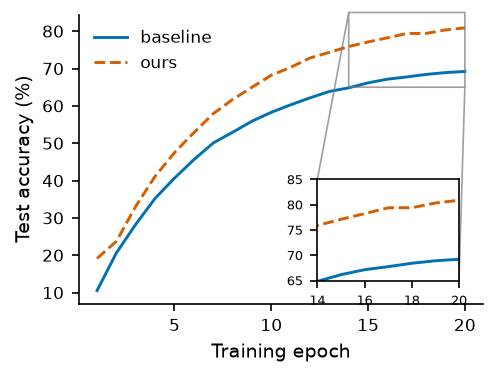
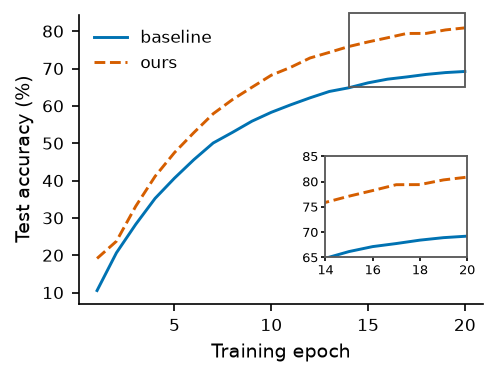
fix: a flat inset with room for its own tick labels
Two things wrong with the inset, both reported after looking at it.

indicate_inset_zoom draws connector lines from the outlined region to the
inset, and on a flat chart those read as a perspective box rather than as a
pointer. The connectors are hidden now. The outline and the inset border share
a colour instead, which ties the two together without implying depth.

The inset also carries its own tick labels, and a bottom corner placed at 0.08
put them level with the parent's x axis. Bottom corners now sit at 0.16, and
the ticks are shorter with less padding so the inset takes less room.

The checker did not catch the collision because it skipped every tick label. It
skipped them because tick labels within one axes have their own check that
knows they come in a row, but an inset's ticks against its parent's are a
collision between two axes. Tick labels are now compared across axes and the
message says when that is what happened.

Verified: 103 TypeScript tests, 58 Python tests, and 7 composition, 16 render
and 11 recipe figures all still render.

diff --git a/src/codegen/compose.ts b/src/codegen/compose.ts
@@ -112,18 +112,28 @@ export function emitLayers(spec: FigureSpec, out: string[]): void {
 export function emitInset(spec: FigureSpec, out: string[]): void {
   if (!spec.inset) return;
   const { corner, size } = spec.inset;
+
+  // The inset carries its own tick labels, so a bottom corner needs clearance
+  // above the parent's x axis or the two rows of numbers run together.
+  const bottom = 0.16;
+  const top = Number((1 - size - 0.04).toFixed(3));
+  const left = 0.1;
+  const right = Number((1 - size - 0.04).toFixed(3));
+
   const placement: Record<string, string> = {
-    upper_left: `[0.06, ${(1 - size - 0.06).toFixed(3)}, ${size}, ${size}]`,
-    upper_right: `[${(1 - size - 0.06).toFixed(3)}, ${(1 - size - 0.06).toFixed(3)}, ${size}, ${size}]`,
-    lower_left: `[0.06, 0.08, ${size}, ${size}]`,
-    lower_right: `[${(1 - size - 0.06).toFixed(3)}, 0.08, ${size}, ${size}]`,
+    upper_left: `[${left}, ${top}, ${size}, ${size}]`,
+    upper_right: `[${right}, ${top}, ${size}, ${size}]`,
+    lower_left: `[${left}, ${bottom}, ${size}, ${size}]`,
+    lower_right: `[${right}, ${bottom}, ${size}, ${size}]`,
   };
 
   out.push(
     "",
     "def add_inset(ax, frame):",
-    "    # A magnified copy with its source region marked, so the reader can see",
-    "    # which part of the figure it came from.",
+    "    # A magnified copy of one region, with that region outlined on the main",
+    "    # axes. The outline and the inset border share a colour, which is what",
+    "    # ties them together. Connector lines would do the same job but they read",
+    "    # as a perspective box, and this is a flat figure.",
     `    zoom = ax.inset_axes(${placement[corner]})`,
     "    draw_panel(zoom, frame)",
     `    zoom.set_xlim(${spec.inset.x[0]}, ${spec.inset.x[1]})`,
@@ -134,10 +144,20 @@ export function emitInset(spec: FigureSpec, out: string[]): void {
     "    legend = zoom.get_legend()",
     "    if legend is not None:",
     "        legend.remove()",
-    "    zoom.tick_params(labelsize=ANNOTATION_PT - 2)",
-    '    for side in ("top", "right"):',
-    "        zoom.spines[side].set_visible(True)",
-    '    ax.indicate_inset_zoom(zoom, edgecolor="#767676", alpha=0.7, linewidth=0.8)',
+    "    zoom.tick_params(labelsize=ANNOTATION_PT - 2, length=2, pad=1.5)",
+    "    zoom.set_facecolor(\"white\")",
+    "    zoom.patch.set_alpha(0.96)",
+    "    for side, spine in zoom.spines.items():",
+    "        spine.set_visible(True)",
+    "        spine.set_color(INSET_EDGE)",
+    "        spine.set_linewidth(0.9)",
+    "",
+    "    outline, connectors = ax.indicate_inset_zoom(",
+    "        zoom, edgecolor=INSET_EDGE, alpha=1.0, linewidth=0.9",
+    "    )",
+    "    outline.set_facecolor(\"none\")",
+    "    for line in connectors or ():",
+    "        line.set_visible(False)",
     "",
   );
 }

diff --git a/src/codegen/index.ts b/src/codegen/index.ts
@@ -122,6 +122,7 @@ function emitPreamble(spec: FigureSpec, out: string[]): void {
   out.push(`SERIES_COUNT = ${spec.series_order ? spec.series_order.length : 1}`);
   out.push(`PALETTE_LOCK = ${pyOptStr(spec.palette_lock)}`);
   if (spec.layers?.length) out.push('LAYER_COLOURS = ["#767676", "#404040", "#a0a0a0"]');
+  if (spec.inset) out.push('INSET_EDGE = "#5a5a5a"');
   if (spec.repeat) {
     out.push(`REPEAT_FIELDS = ${pyList(spec.repeat.fields)}`);
     out.push(`REPEAT_COLUMNS = ${spec.repeat.columns}`);

diff --git a/python/graphunslopify/inspect.py b/python/graphunslopify/inspect.py
@@ -127,50 +127,61 @@ def _check_tick_collisions(axes: Any, renderer: Any, report: Report) -> None:
 
 
 def _check_text_collisions(figure: Any, renderer: Any, report: Report) -> None:
-    """Any two pieces of text landing on each other, not only tick labels.
+    """Any two pieces of text landing on each other.
 
-    Annotations, reference line labels and the title are placed independently,
-    so nothing stops them overlapping. A label sitting on the title renders
-    perfectly and is unreadable, which is the class of defect this whole package
-    exists to catch.
+    Tick labels within one axes have their own check, which knows they come in a
+    row. This one covers everything else: an annotation on the title, a
+    reference label on an annotation, and an inset's tick labels running into
+    the parent's, which is a collision between two axes rather than within one.
     """
-    boxes: list[tuple[str, Any]] = []
-    for artist in _visible_texts(figure):
-        # Tick labels have their own check, which knows they come in a row.
-        if getattr(artist, "_gu_is_tick", False):
+    from matplotlib.text import Text
+
+    entries: list[tuple[str, Any, int, bool]] = []
+    for axes in figure.get_axes():
+        if not axes.get_visible():
+            continue
+        owner = id(axes)
+        ticks = {id(t) for t in list(axes.get_xticklabels()) + list(axes.get_yticklabels())}
+        for artist in axes.findobj(Text):
+            if not artist.get_visible() or not (artist.get_text() or "").strip():
+                continue
+            try:
+                box = artist.get_window_extent(renderer)
+            except (ValueError, RuntimeError):
+                continue
+            if box.width <= 0 or box.height <= 0:
+                continue
+            entries.append((artist.get_text(), box, owner, id(artist) in ticks))
+
+    for text in figure.texts:
+        if not text.get_visible() or not (text.get_text() or "").strip():
             continue
         try:
-            box = artist.get_window_extent(renderer)
+            box = text.get_window_extent(renderer)
         except (ValueError, RuntimeError):
             continue
-        if box.width <= 0 or box.height <= 0:
-            continue
-        boxes.append((artist.get_text(), box))
+        entries.append((text.get_text(), box, 0, False))
 
-    ticks = set()
-    for axes in figure.get_axes():
-        for label in list(axes.get_xticklabels()) + list(axes.get_yticklabels()):
-            ticks.add(id(label))
-    boxes = [
-        (text, box)
-        for (text, box), artist in zip(boxes, [a for a in _visible_texts(figure)])
-        if id(artist) not in ticks
-    ]
-
-    for i in range(len(boxes)):
-        for j in range(i + 1, len(boxes)):
-            left, right = boxes[i], boxes[j]
-            if not _overlaps(left[1], right[1]):
+    for i in range(len(entries)):
+        for j in range(i + 1, len(entries)):
+            left_text, left_box, left_axes, left_tick = entries[i]
+            right_text, right_box, right_axes, right_tick = entries[j]
+            # Two tick labels on the same axes are the other check's business.
+            if left_tick and right_tick and left_axes == right_axes:
                 continue
-            overlap_w = min(left[1].x1, right[1].x1) - max(left[1].x0, right[1].x0)
-            overlap_h = min(left[1].y1, right[1].y1) - max(left[1].y0, right[1].y0)
-            smaller = min(left[1].width * left[1].height, right[1].width * right[1].height)
-            if smaller <= 0 or (overlap_w * overlap_h) / smaller < 0.12:
+            if not _overlaps(left_box, right_box):
                 continue
+            overlap = (min(left_box.x1, right_box.x1) - max(left_box.x0, right_box.x0)) * (
+                min(left_box.y1, right_box.y1) - max(left_box.y0, right_box.y0)
+            )
+            smaller = min(left_box.width * left_box.height, right_box.width * right_box.height)
+            if smaller <= 0 or overlap / smaller < 0.12:
+                continue
+            across = " (an inset over its parent)" if left_axes != right_axes else ""
             report.add(
                 "error",
                 "labels_collide",
-                f'"{left[0]}" and "{right[0]}" are drawn on top of each other.',
+                f'"{left_text}" and "{right_text}" are drawn on top of each other{across}.',
             )
             return
 

diff --git a/python/tests/test_inspect.py b/python/tests/test_inspect.py
@@ -213,6 +213,26 @@ def test_a_label_landing_on_the_title_is_caught():
     assert "labels_collide" in codes(fig)
 
 
+def test_an_inset_crowding_its_parent_axis_is_caught():
+    """Two axes, so neither the tick check nor the old text check saw it."""
+    fig, ax = plt.subplots(figsize=(4, 3))
+    ax.plot(range(20), range(20))
+    # Placed low enough that its tick labels sit on the parent's.
+    zoom = ax.inset_axes([0.55, -0.02, 0.4, 0.3])
+    zoom.plot(range(20), range(20))
+    zoom.set_xlim(10, 15)
+    assert "labels_collide" in codes(fig)
+
+
+def test_an_inset_with_clearance_is_fine():
+    fig, ax = plt.subplots(figsize=(6, 4))
+    ax.plot(range(20), range(20))
+    zoom = ax.inset_axes([0.55, 0.16, 0.35, 0.35])
+    zoom.plot(range(20), range(20))
+    zoom.set_xlim(10, 15)
+    assert "labels_collide" not in codes(fig)
+
+
 def test_well_spaced_labels_do_not_collide():
     fig, ax = plt.subplots(figsize=(6, 4))
     ax.plot([1, 2, 3], [1, 2, 3])
